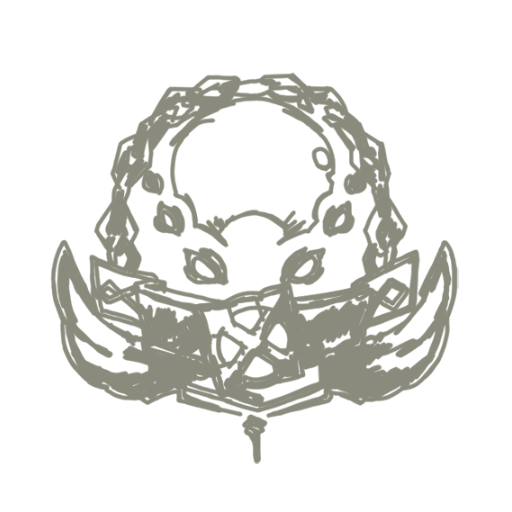
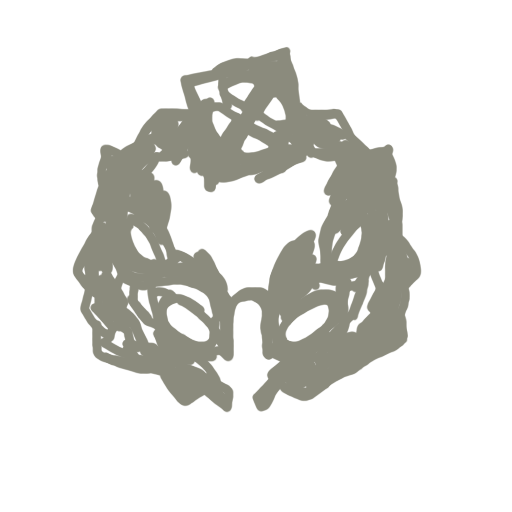
Neows Vigor made clearer.  Heart Strike doesnt exhaust.  Neow art

Changed region(s): [[0.0938, 0.0938, 0.9062, 0.9062]]

diff --git a/src/main/java/downfall/monsters/NeowBoss.java b/src/main/java/downfall/monsters/NeowBoss.java
@@ -321,7 +321,9 @@ public class NeowBoss extends AbstractMonster {
                 //AbstractDungeon.actionManager.addToBottom(new DamageAction(AbstractDungeon.player, (DamageInfo) this.damage.get(0), AbstractGameAction.AttackEffect.FIRE, false, true));
                 //AbstractDungeon.actionManager.addToBottom(new ApplyPowerAction(this, this, new StrengthPower(this, 1), 1));
 
-                AbstractDungeon.actionManager.addToBottom(new ApplyPowerAction(minion, minion, new EndOfTurnStrengthDex(minion, 1), 1));
+                if (!minion.hasPower(EndOfTurnStrengthDex.POWER_ID)) {
+                    AbstractDungeon.actionManager.addToBottom(new ApplyPowerAction(minion, minion, new EndOfTurnStrengthDex(minion, 1), 1));
+                }
                 AbstractDungeon.actionManager.addToBottom(new HealAction(minion, this, 20));
                 break;
             case 6:

diff --git a/src/main/java/downfall/powers/EndOfTurnStrengthDex.java b/src/main/java/downfall/powers/EndOfTurnStrengthDex.java
@@ -38,14 +38,10 @@ public class EndOfTurnStrengthDex extends AbstractPower {
         this.canGoNegative = false;
     }
 
-
-
     @Override
     public void atEndOfRound() {
         AbstractDungeon.actionManager.addToBottom(new ApplyPowerAction(owner, owner, new StrengthPower(owner, amount), amount));
         AbstractDungeon.actionManager.addToBottom(new ApplyPowerAction(owner, owner, new DexterityPower(owner,amount), amount));
-        AbstractDungeon.actionManager.addToBottom(new RemoveSpecificPowerAction(owner, owner, this));
-
         super.atEndOfRound();
     }
 

diff --git a/src/main/java/champ/cards/HeartStrike.java b/src/main/java/champ/cards/HeartStrike.java
@@ -20,7 +20,6 @@ public class HeartStrike extends AbstractChampCard {
     public HeartStrike() {
         super(ID, 1, CardType.ATTACK, CardRarity.UNCOMMON, CardTarget.ENEMY);
         baseDamage = DAMAGE;
-        exhaust = true;
         tags.add(ChampMod.FINISHER);
         this.tags.add(SneckoMod.BANNEDFORSNECKO);
     }
